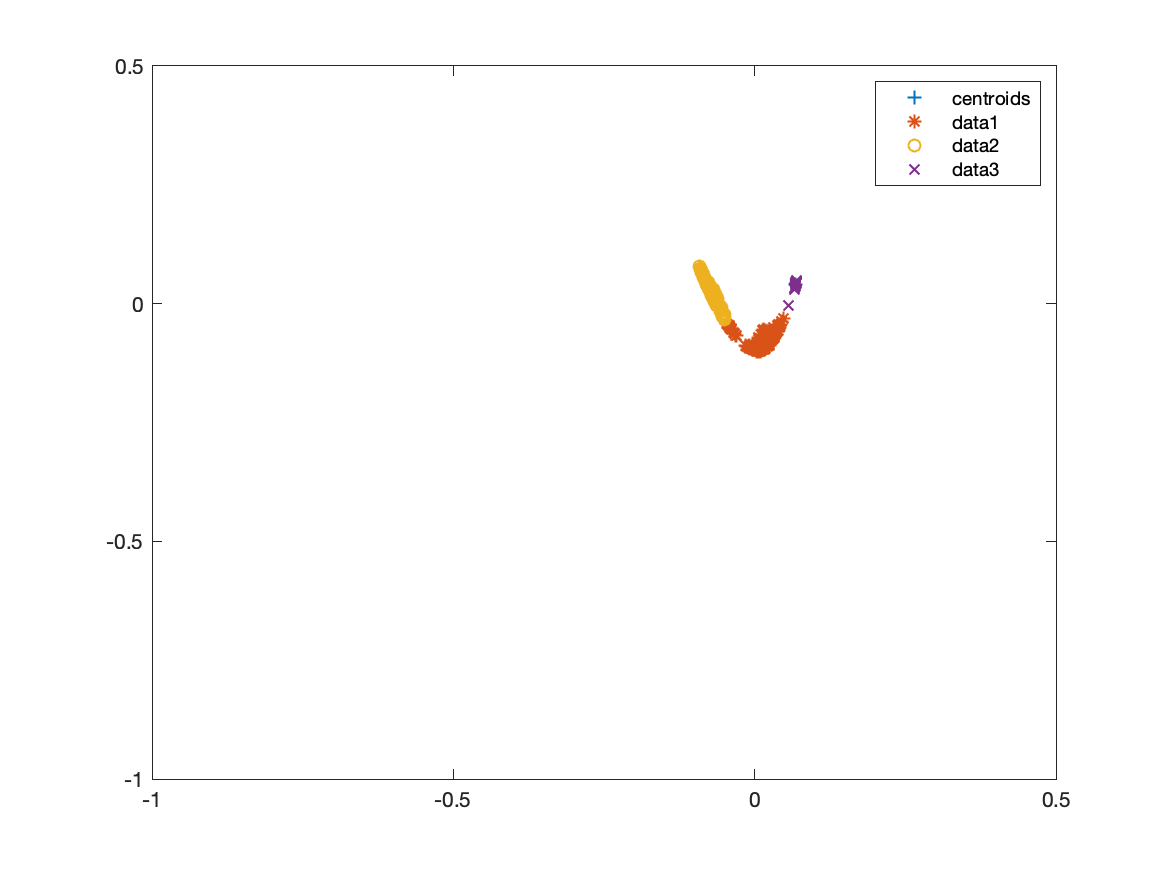
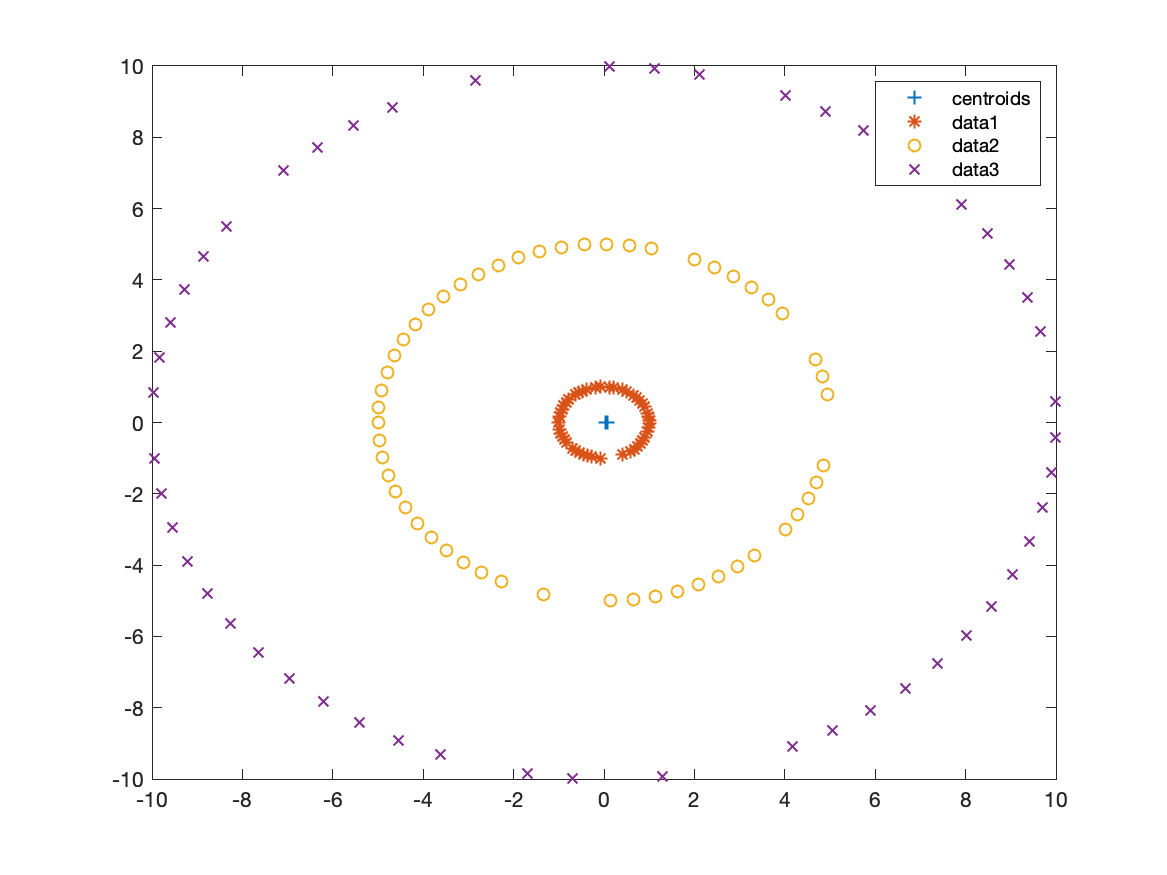
spectral relaxation

diff --git a/hw5_spectral.m b/hw5_spectral.m
@@ -3,9 +3,38 @@ clear;
 rng(4);
 num_items = 100;
 num_dimensions = 2;
-cluster_1 = randi([0,10],num_items,num_dimensions);
-cluster_2 = randi([20,100],num_items,num_dimensions);
-cluster_3 = randi([100,200],num_items,num_dimensions);
+%cluster_1 = randi([0,10],num_items,num_dimensions);
+%cluster_2 = randi([20,100],num_items,num_dimensions);
+%cluster_3 = randi([110,300],num_items,num_dimensions);
+
+% https://www.mathworks.com/matlabcentral/answers/83702-generate-random-coordinates-around-a-circle
+x0=0; % x0 and y0 are center coordinates
+y0=0;  
+r=1;  % radius
+angle=-pi:0.1:pi;
+angl=angle(randi(numel(angle),100,1));
+x=r*cos(angl)+x0;
+y=r*sin(angl)+y0;
+cluster_1 = [x', y'];
+
+x0=0; % x0 and y0 are center coordinates
+y0=0;  
+r=5;  % radius
+angle=-pi:0.1:pi;
+angl=angle(randi(numel(angle),100,1));
+x=r*cos(angl)+x0;
+y=r*sin(angl)+y0;
+cluster_2 = [x', y'];
+
+x0=0; % x0 and y0 are center coordinates
+y0=0;  
+r=10;  % radius
+angle=-pi:0.1:pi;
+angl=angle(randi(numel(angle),100,1));
+x=r*cos(angl)+x0;
+y=r*sin(angl)+y0;
+cluster_3 = [x', y'];
+
 data = [cluster_1;cluster_2;cluster_3];
 num_items = num_items * 3;
 
@@ -28,7 +57,7 @@ laplacianMatrix = degreeMatrix - adjacencyMatrix;
 
 eigVals = diag(eigVals);
 
-[sortedVals,indices] = sort(eigVals,'descend');
+[sortedVals,indices] = sort(eigVals,'ascend');
 
 selectedIndices = indices(1:num_dimensions);
 
@@ -39,8 +68,6 @@ centroids = sortrows(d_Vecs(1:K,:));
 [memberships, new_centroids] = customKmeans(d_Vecs,centroids,memberships);
 
 if num_dimensions == 2
-    f = customPlotKmeans2D(new_centroids,d_Vecs,memberships,0.5);
+    f = customPlotKmeans2D(new_centroids,data,memberships,10);
     saveas(f,['./figures/kmeansSpecData.png']);
-    f = customPlotKmeans2D(new_centroids,data,memberships,num_items);
-    saveas(f,['./figures/kmeansSpecEigVecs.png']);
 end

diff --git a/hw5_kmeans.m b/hw5_kmeans.m
@@ -4,9 +4,38 @@ rng(4);
 num_items = 100;
 num_dimensions = 2;
 
-cluster_1 = randi([0,10],num_items,num_dimensions);
-cluster_2 = randi([20,100],num_items,num_dimensions);
-cluster_3 = randi([100,200],num_items,num_dimensions);
+%cluster_1 = randi([0,10],num_items,num_dimensions);
+%cluster_2 = randi([20,100],num_items,num_dimensions);
+%cluster_3 = randi([110,300],num_items,num_dimensions);
+
+% https://www.mathworks.com/matlabcentral/answers/83702-generate-random-coordinates-around-a-circle
+x0=0; % x0 and y0 are center coordinates
+y0=0;  
+r=1;  % radius
+angle=-pi:0.1:pi;
+angl=angle(randi(numel(angle),100,1));
+x=r*cos(angl)+x0;
+y=r*sin(angl)+y0;
+cluster_1 = [x', y'];
+
+x0=0; % x0 and y0 are center coordinates
+y0=0;  
+r=5;  % radius
+angle=-pi:0.1:pi;
+angl=angle(randi(numel(angle),100,1));
+x=r*cos(angl)+x0;
+y=r*sin(angl)+y0;
+cluster_2 = [x', y'];
+
+x0=0; % x0 and y0 are center coordinates
+y0=0;  
+r=10;  % radius
+angle=-pi:0.1:pi;
+angl=angle(randi(numel(angle),100,1));
+x=r*cos(angl)+x0;
+y=r*sin(angl)+y0;
+cluster_3 = [x', y'];
+
 data = [cluster_1;cluster_2;cluster_3];
 num_items = num_items * 3;
 
@@ -26,6 +55,6 @@ centroids
 new_centroids
 
 if num_dimensions == 2
-    f = customPlotKmeans2D(new_centroids,data,memberships,200);
+    f = customPlotKmeans2D(new_centroids,data,memberships,10);
     saveas(f,['./figures/kmeans1.png']);
 end

diff --git a/circle.m b/circle.m
@@ -1,0 +1,24 @@
+x0=0; % x0 and y0 are center coordinates
+y0=0;  
+r=1;  % radius
+angle=-pi:0.1:pi;
+angl=angle(randi(numel(angle),100,1));
+x=r*cos(angl)+x0;
+y=r*sin(angl)+y0;
+scatter(x,y);
+xlim([-r r]+x0);
+ylim([-r r]+y0);
+axis square;
+
+hold on;
+
+x0=0; % x0 and y0 are center coordinates
+y0=0;  
+r=2;  % radius
+angle=-pi:0.1:pi;
+angl=angle(randi(numel(angle),100,1));
+x=r*cos(angl)+x0;
+y=r*sin(angl)+y0;
+
+data = [x', y'];
+%axis square;

diff --git a/customPlotKmeans2D.m b/customPlotKmeans2D.m
@@ -10,7 +10,7 @@ y = new_centroids(:,2);
 
 f = figure();
 plot(x,y,'+');
-axis([-1 dimension -1 dimension]);
+axis([-dimension dimension -dimension dimension]);
 legend('centroids');
 hold on;
 shapes = ['*','o','x','d','s'];
